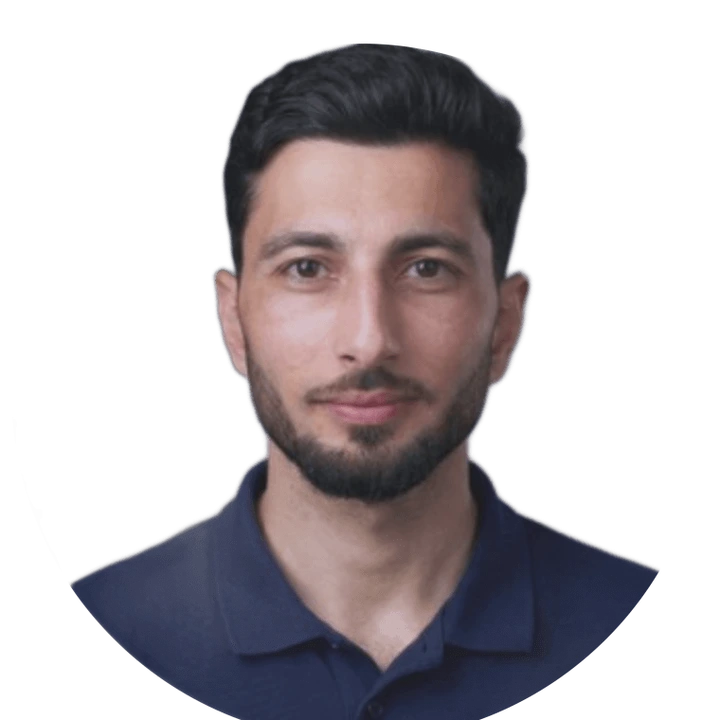
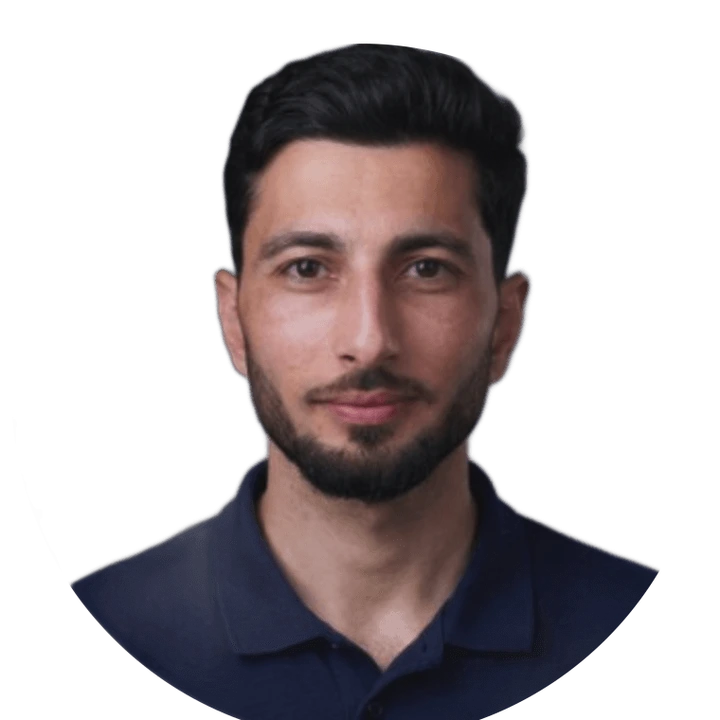
Fix photo CV portrait fit and darken portrait
- Pre-round the CV photo into a transparent circle so it can no longer overlap the ring
- Ring drawn as a separate padded circle; portrait re-graded darker to sit in the dark theme

diff --git a/src/cv/PhotoCv.tsx b/src/cv/PhotoCv.tsx
@@ -11,8 +11,8 @@ const s = StyleSheet.create({
   page: { paddingTop: 30, paddingBottom: 30, paddingLeft: SIDE + 26, paddingRight: 28, fontFamily: 'Helvetica', fontSize: 9, color: '#1e293b', lineHeight: 1.35 },
   sideBg: { position: 'absolute', left: 0, top: 0, bottom: 0, width: SIDE, backgroundColor: NAVY },
   side: { position: 'absolute', left: 0, top: 0, width: SIDE, paddingTop: 30, paddingHorizontal: 18, color: '#e2e8f0' },
-  photoRing: { width: 96, height: 96, borderRadius: 48, alignSelf: 'center', marginBottom: 10, borderWidth: 2, borderColor: SOFT, overflow: 'hidden' },
-  photoImg: { width: 92, height: 92, objectFit: 'cover' },
+  photoRing: { width: 100, height: 100, borderRadius: 50, alignSelf: 'center', marginBottom: 10, borderWidth: 1.6, borderColor: SOFT, justifyContent: 'center', alignItems: 'center' },
+  photoImg: { width: 90, height: 90 },
   initials: { width: 92, height: 92, borderRadius: 46, alignSelf: 'center', marginBottom: 10, borderWidth: 2, borderColor: SOFT, justifyContent: 'center', alignItems: 'center' },
   initialsText: { fontFamily: 'Helvetica-Bold', fontSize: 30, color: SOFT },
   name: { fontFamily: 'Helvetica-Bold', fontSize: 17, lineHeight: 1.2, color: '#fff', textAlign: 'center' },

diff --git a/src/cv/generate.tsx b/src/cv/generate.tsx
@@ -37,13 +37,16 @@ async function loadPhoto(): Promise<string | undefined> {
     const bitmap = await createImageBitmap(await res.blob())
     const size = Math.min(bitmap.width, bitmap.height)
     const canvas = document.createElement('canvas')
-    canvas.width = canvas.height = Math.min(size, 500)
+    canvas.width = canvas.height = Math.min(size, 420)
     const ctx = canvas.getContext('2d')
     if (!ctx) return undefined
+    ctx.beginPath()
+    ctx.arc(canvas.width / 2, canvas.height / 2, canvas.width / 2, 0, Math.PI * 2)
+    ctx.clip()
     ctx.fillStyle = '#0f1b33'
     ctx.fillRect(0, 0, canvas.width, canvas.height)
     ctx.drawImage(bitmap, (bitmap.width - size) / 2, (bitmap.height - size) / 2, size, size, 0, 0, canvas.width, canvas.height)
-    return canvas.toDataURL('image/jpeg', 0.92)
+    return canvas.toDataURL('image/png')
   } catch {
     return undefined
   }
